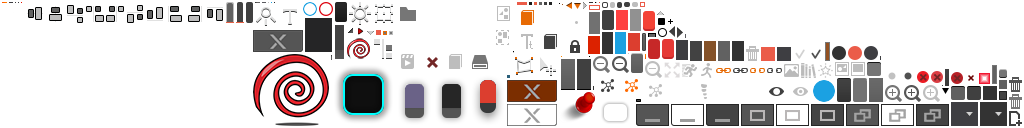
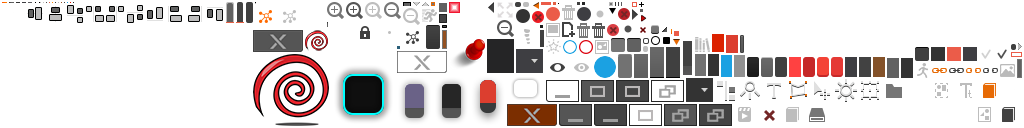
Improve console style

diff --git a/src/main/java/games/rednblack/editor/view/ui/dialog/ConsoleDialog.java b/src/main/java/games/rednblack/editor/view/ui/dialog/ConsoleDialog.java
@@ -43,8 +43,8 @@ public class ConsoleDialog extends VisDialog {
     public ConsoleDialog() {
         super("Console", "console");
         setModal(false);
+        setResizable(true);
         addCloseButton();
-        this.getTitleTable().padTop(-15);
 
         fixedRule = new FixedRule();
 
@@ -90,13 +90,13 @@ public class ConsoleDialog extends VisDialog {
         ScrollPane scrollPane = textArea.createCompatibleScrollPane();
         scrollPane.addListener(new ScrollFocusListener());
         textArea.addListener(new CursorListener(Cursors.TEXT, HyperLap2DFacade.getInstance()));
-        getContentTable().add(scrollPane).padTop(20).grow().row();
+        getContentTable().add(scrollPane).grow().row();
     }
 
     @Override
     public void addCloseButton() {
-        VisImageButton closeButton = new VisImageButton("close-window");
-        this.getTitleTable().add(closeButton).padRight(0).padTop(40);
+        VisImageButton closeButton = new VisImageButton("close-properties");
+        this.getTitleTable().add(closeButton).padRight(0).padTop(0);
         closeButton.addListener(new ChangeListener() {
             @Override
             public void changed (ChangeEvent event, Actor actor) {
@@ -161,12 +161,12 @@ public class ConsoleDialog extends VisDialog {
 
     @Override
     public float getPrefWidth() {
-        return Sandbox.getInstance().getUIStage().getWidth() * 0.7f;
+        return Sandbox.getInstance().getUIStage().getWidth() * 0.5f;
     }
 
     @Override
     public float getPrefHeight() {
-        return Sandbox.getInstance().getUIStage().getHeight() * 0.8f;
+        return Sandbox.getInstance().getUIStage().getHeight() * 0.5f;
     }
 
     private static class FixedRule implements HighlightRule {
